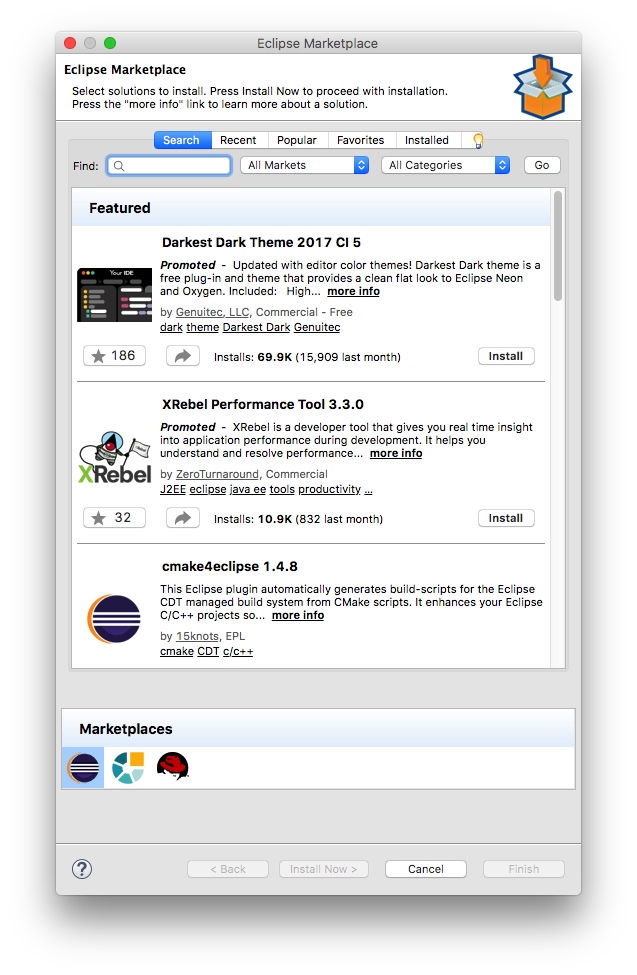
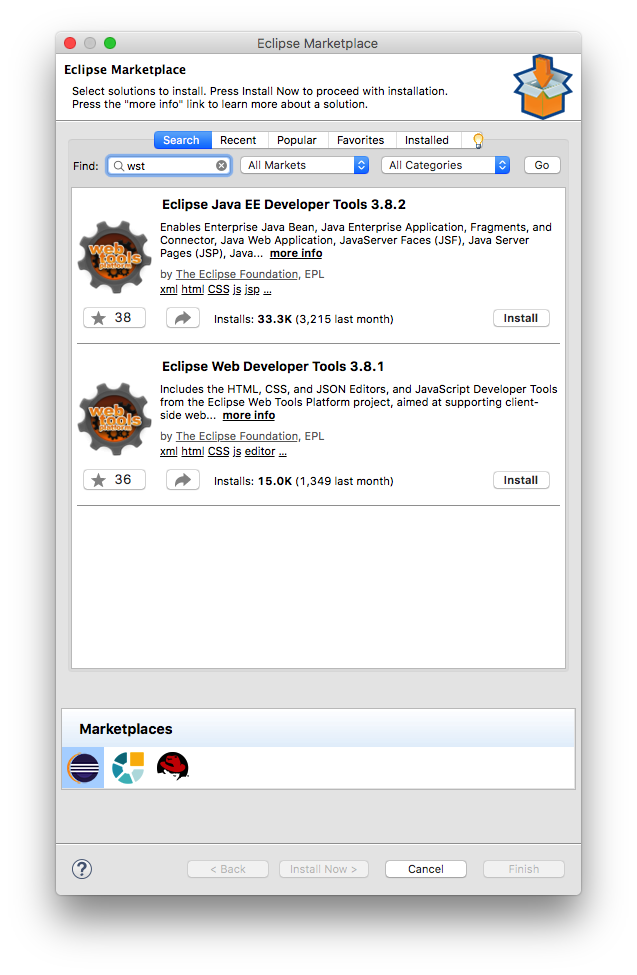
Fixes.

Changed region(s): [[0.1193, 0.1538, 0.8948, 0.6769]]

diff --git a/step-3/README.md b/step-3/README.md
@@ -12,7 +12,7 @@ Next to the test that says `Work with` there's a drop down where you can select 
 
 If you have downloaded `Eclipse Nwon`, select `Neon` and press `Enter`. A list of available packages will begin to load.
 
-Once the list has finished loading, locate the `General Purpose Tools` node and expand it. Then tick the `Marketplace Client` box and press the `Next` button at the bottom.
+Once the list has finished loading, locate the `General Purpose Tools` node and expand it. Then tick the `Marketplace Client` box and click the `Next` button at the bottom.
 
 ![Marketplace Client](./images/2.png)
 
@@ -22,13 +22,13 @@ Open again the `Help` menu and select the new option `Eclipse Marketplace...`
 
 ![Eclipse Marketplace](./images/3.png)
 
-The `Eclipse Marketplace` window will open, In the search box type: `pydev` and press `Enter`.
+The `Eclipse Marketplace` window will open, In the search box type `pydev` and press `Enter`.
 
 ![Eclipse Marketplace](./images/4.png)
 
 Click the `Install` button and continue with the installation process, it will also ask you to accept the license agreements to continue.
 
-At some point during the installation process you will be asked to trust a certificate. It is very important to check the box and press the `OK` button, otherwise the installation will not succeed.
+At some point during the installation process you will be asked to trust a certificate. It is very important to check the box and click the `OK` button, otherwise the installation will not succeed.
 
 ![Certificate](./images/5.png)
 
@@ -38,7 +38,7 @@ To enable the `PyDev` plugin you need to change the IDE perspective.
 
 Open the `Window` menu, select `Perspective` -> `Open Perspective` -> `Other...`
 
-Select the `PyDev` perspecive and press the `OK` button.
+Select the `PyDev` perspecive and click the `OK` button.
 
 ![Perspective](./images/6.png)
 

diff --git a/extra-step/README.md b/extra-step/README.md
@@ -1,7 +1,5 @@
 # Darkest Dark Theme
 
-Note: At the moment of writing this guide there's a small bug using this plugin. When a fix for the bug is found this notice will be removed.
-
 By default, `Eclipse` has a white and light gray theme. You can change the theme in the `Preferences` menu to a darker theme.
 
 There's an alternative to the builtin dark theme named `Darkest Dark Theme` which looks nicer and helps with the eye strain in those large coding sessions.
@@ -10,13 +8,25 @@ To install it you need to open the `Help` menu and select `Eclipse Marketplece..
 
 ![Eclipse Marketplace](./images/1.png)
 
-You will notice that the `Darkest Dark Theme` is very popular and it's the first item you will see on the `Eclipse Marketplace`.
+This plugin has a small bug that can be workarounded by installing another plugin.
+
+In the search box type the letters `wst` and press `Enter`.
+
+Click the `Install` button on the `Eclipse Web Developer Tools`.
 
 ![Eclipse Marketplace](./images/2.png)
 
-Press the `Install` button, you will be required to accept the licenses and restart `Eclipse` once it has finished installing.
+In the next step you can select which extra packages do you want such as `Git` integration.
+
+If you don't need them you can leave them unchecked. Once you have accepted the licenses and the plugin has installed you will need to restart `Eclipse` when prompted.
+
+Open again the `Eclipse Marketplace`, then type in the search box `darkest` and press `Enter`, the `Darkest Dark Theme` should be the first item on the results list.
+
+![Eclipse Marketplace](./images/3.png)
+
+Click the `Install` button, you will be required to accept the licenses and restart `Eclipse` once it has finished installing.
 
 When `Eclipse` has restarted you should have an `IDE` looking like in the following image.
 
-![Result](./images/3.png)
+![Result](./images/4.png)
 

diff --git a/step-5/README.md b/step-5/README.md
@@ -18,7 +18,7 @@ Once you have created your file a window will appear asking for your `PyDev` pre
 
 ![PyDev preferences](./images/4.png)
 
-The new `.py` file will be opened on the right side. Type the following code and then press the green button on the top that has a Play icon.
+The new `.py` file will be opened on the right side. Type the following code and then press the green button on the top that has a Play icon. Alternative you can press `F9` to run your script.
 
 ```python
 print("Hello World")

diff --git a/README.md b/README.md
@@ -31,3 +31,8 @@ This guide will teach you how to configure the `PyDev` plugin. Including setting
 *Main guide: [Running your First Script](./step-5)*
 
 This guide will teach you how to run your first `Python 3` script.
+
+## Darkest Dark Theme
+*Main guide: [Darkest Dark Theme](./extra-step)*
+
+This guide will teach you how to change your default `Eclipse` theme for a darker one. Useful for coding at night and to reduce eye strain.
